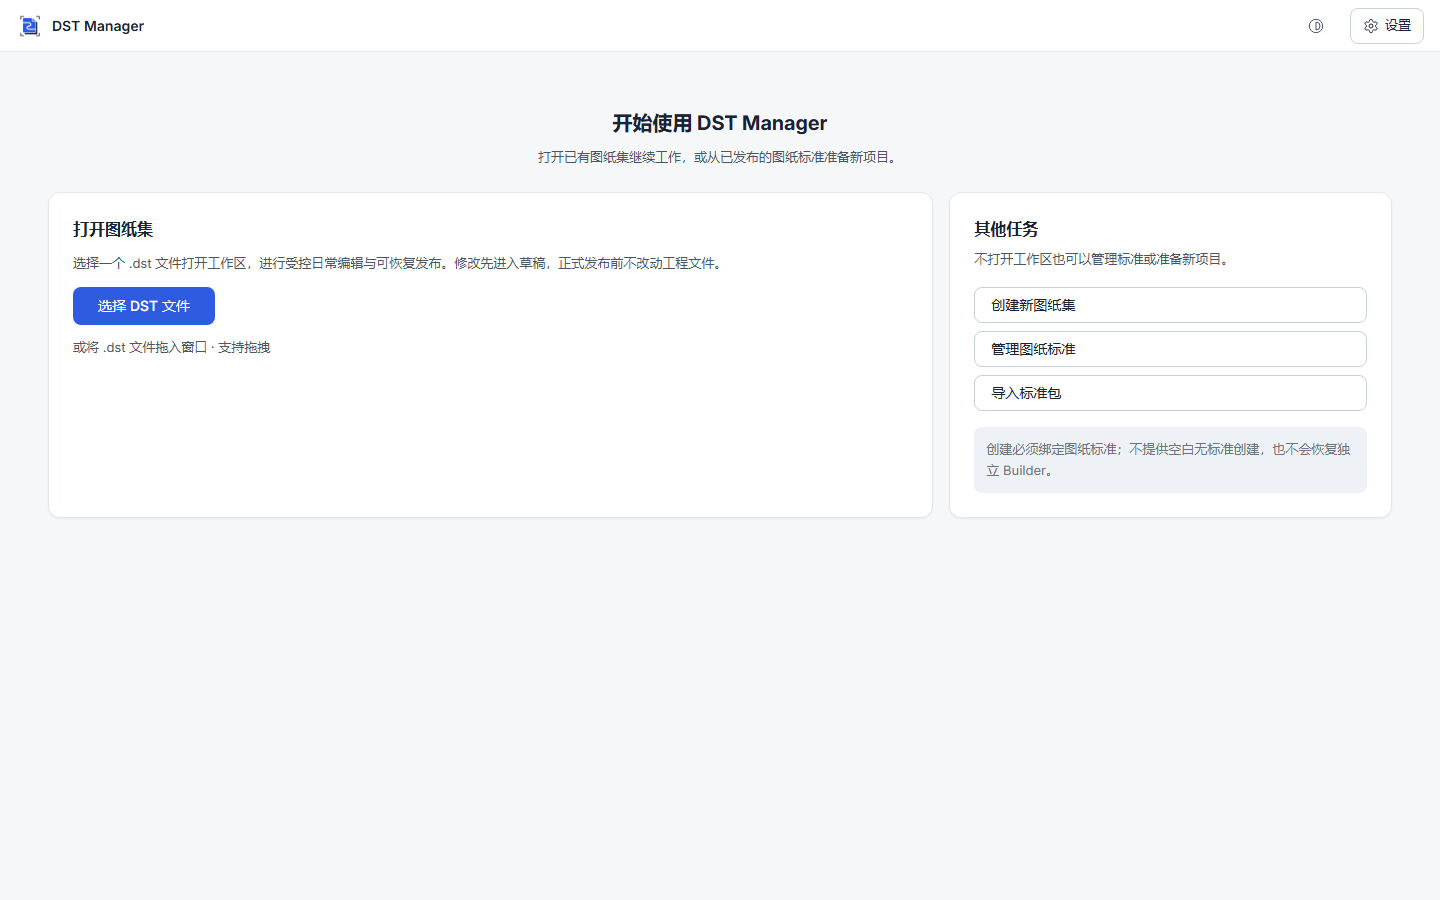
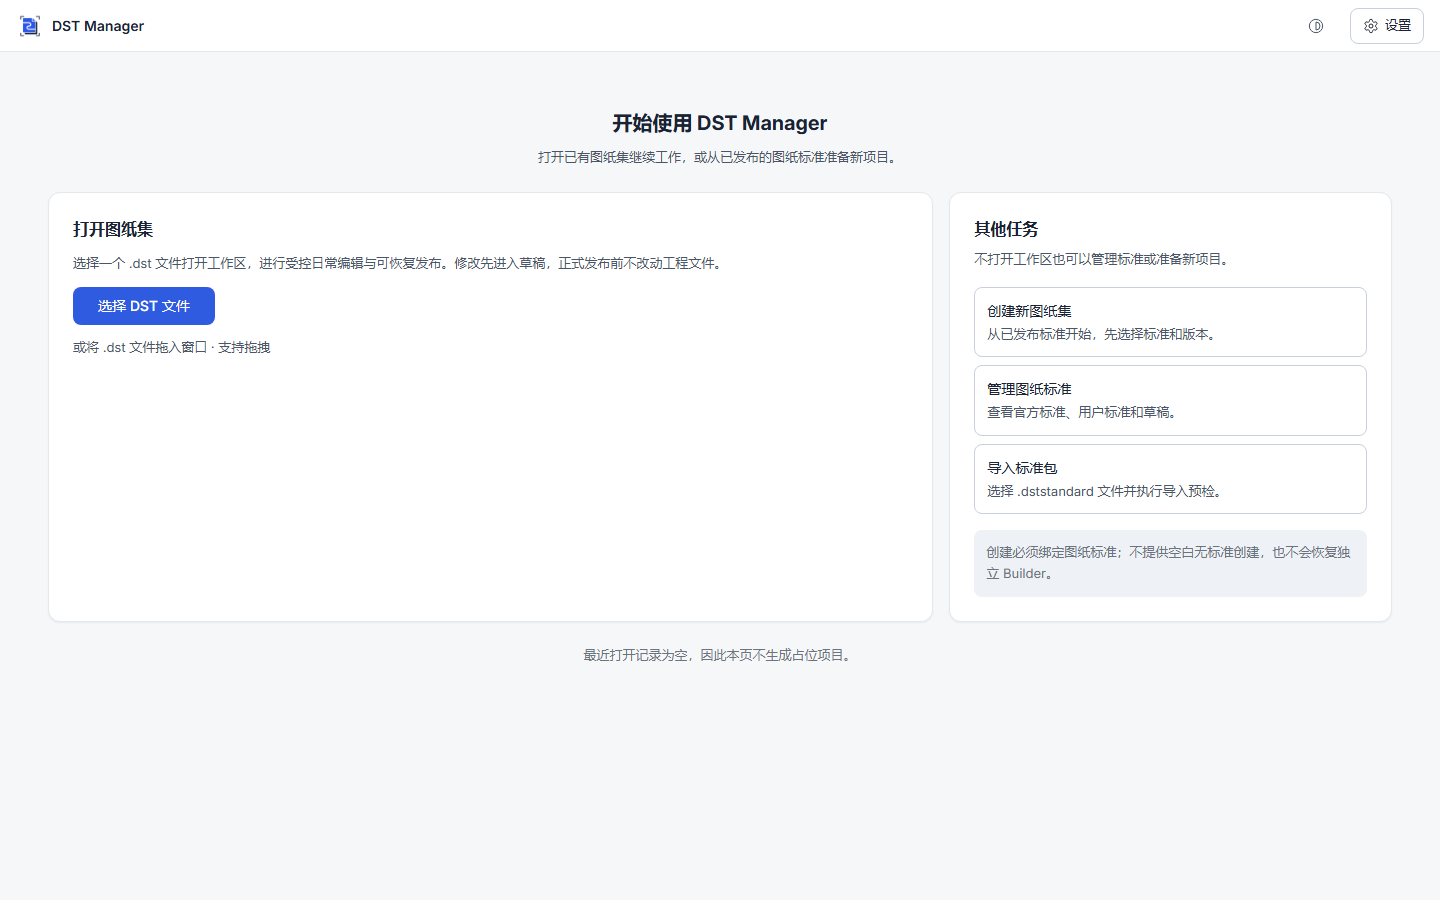
按 Demo 修正属性表标签重复与欢迎页任务说明

Changed region(s): [[0.6875, 0.3111, 0.9375, 0.56], [0.6875, 0.5911, 0.9375, 0.6533], [0.4062, 0.7156, 0.5938, 0.7467]]

diff --git a/web/src/views/WelcomeView.vue b/web/src/views/WelcomeView.vue
@@ -47,18 +47,29 @@ const pathInputId = "welcome-path-input";
         <p>{{ $t("shell.welcome.otherTasksDesc") }}</p>
         <div class="task-list">
           <UiButton class="task-item" variant="secondary" @click="emit('createSheetset')">
-            {{ $t("shell.welcome.createTask") }}
+            <span class="task-copy">
+              <strong>{{ $t("shell.welcome.createTask") }}</strong>
+              <span>{{ $t("shell.welcome.createTaskDesc") }}</span>
+            </span>
           </UiButton>
           <UiButton class="task-item" variant="secondary" @click="emit('manageStandards')">
-            {{ $t("standards.entry") }}
+            <span class="task-copy">
+              <strong>{{ $t("standards.entry") }}</strong>
+              <span>{{ $t("shell.welcome.manageTaskDesc") }}</span>
+            </span>
           </UiButton>
           <UiButton class="task-item" variant="secondary" @click="emit('importStandard')">
-            {{ $t("standards.library.import") }}
+            <span class="task-copy">
+              <strong>{{ $t("standards.library.import") }}</strong>
+              <span>{{ $t("shell.welcome.importTaskDesc") }}</span>
+            </span>
           </UiButton>
         </div>
         <p class="boundary-note" role="note">{{ $t("shell.welcome.standardBoundary") }}</p>
       </aside>
     </div>
+    <!-- 最近打开属于增强信息：没有可信记录时不伪造历史，只说明为空（SPEC-DM-016 §4.1） -->
+    <p class="recent-note">{{ $t("shell.welcome.recentEmptyNote") }}</p>
   </section>
 </template>
 <style scoped>
@@ -82,8 +93,12 @@ const pathInputId = "welcome-path-input";
 .welcome-open-card .primary:hover{background:var(--color-accent-hover)}
 .welcome-task-card{display:flex;flex-direction:column;gap:var(--space-2)}
 .task-list{display:grid;gap:var(--space-2);margin-top:var(--space-2)}
-.task-item{width:100%;justify-content:flex-start;text-align:left}
+.task-item{width:100%;height:auto;justify-content:flex-start;text-align:left;padding:var(--space-3)}
+.task-copy{display:grid;gap:var(--space-1);min-width:0}
+.task-copy strong{font-weight:500;color:var(--color-text-primary)}
+.task-copy span{color:var(--color-text-secondary);font-size:var(--font-label);line-height:1.5;white-space:normal}
 .boundary-note{margin-top:var(--space-2)!important;padding:var(--space-3);border-radius:var(--radius-md);background:var(--color-bg-muted);color:var(--color-text-muted)!important;font-size:var(--font-label);line-height:1.6}
+.recent-note{margin:0;text-align:center;color:var(--color-text-muted);font-size:var(--font-label)}
 /* 900×768 及以下单列：打开任务仍在最前，不产生页面横向滚动（SPEC-DM-016 §4.1） */
 @media (max-width: 900px){
   .welcome-page{padding:var(--space-5) var(--space-4)}

diff --git a/web/src/components/standards/OrdinaryPropertyEditor.vue b/web/src/components/standards/OrdinaryPropertyEditor.vue
@@ -233,6 +233,7 @@ function applyCsv(): void {
             <UiInput
               v-model="property.name"
               :label="$t('standards.ordinary.name')"
+              :aria-label="$t('standards.ordinary.name')"
               :invalid="hasError(property)"
               :data-testid="`ordinary-name-${property.property_id}`"
             />
@@ -286,6 +287,7 @@ function applyCsv(): void {
             <UiInput
               v-model="property.default_value"
               :label="$t('standards.ordinary.defaultValue')"
+              :aria-label="$t('standards.ordinary.defaultValue')"
               :placeholder="$t('standards.ordinary.defaultPlaceholder')"
               :data-testid="`ordinary-default-${property.property_id}`"
             />
@@ -316,6 +318,7 @@ function applyCsv(): void {
             <UiInput
               v-model="property.description"
               :label="$t('standards.ordinary.description')"
+              :aria-label="$t('standards.ordinary.description')"
               :data-testid="`ordinary-description-${property.property_id}`"
             />
           </td>
@@ -367,6 +370,10 @@ function applyCsv(): void {
 .delete-error{margin:0;padding:var(--space-2) var(--space-3);border:1px solid var(--color-danger);border-radius:var(--radius-md);background:var(--color-danger-bg);color:var(--color-danger);font-size:var(--font-label)}
 .section-empty{margin:0;font-size:var(--font-label);color:var(--color-text-secondary)}
 .ordinary-scroll{overflow-x:auto;min-width:0}
+/* 列标题已由表头表达（SPEC-DM-017 编辑器 Demo）：单元格内的 UiInput 可见字段标签
+   会与表头重复、把行撑高并造成错位。标签保留在 DOM 中作为可访问名，仅视觉隐藏。 */
+.ordinary-table :deep(.ui-input){gap:0}
+.ordinary-table :deep(.ui-input__label){display:none}
 .ordinary-table{width:100%;min-width:var(--standards-table-min-width);border-collapse:collapse;table-layout:fixed}
 .ordinary-table th,.ordinary-table td{padding:var(--space-1);border-bottom:1px solid var(--color-border-subtle);text-align:left;vertical-align:top}
 .ordinary-table th{font-size:var(--font-label);color:var(--color-text-secondary);font-weight:500}

diff --git a/web/src/components/standards/DerivedPropertyEditor.vue b/web/src/components/standards/DerivedPropertyEditor.vue
@@ -244,6 +244,7 @@ function removeProperty(property: DraftProperty): void {
         <UiInput
           v-model="property.name"
           :label="$t('standards.derived.name')"
+          :aria-label="$t('standards.derived.name')"
           :data-testid="`derived-name-${property.property_id}`"
         />
         <select
@@ -280,6 +281,7 @@ function removeProperty(property: DraftProperty): void {
         <UiInput
           v-model="property.description"
           :label="$t('standards.derived.description')"
+          :aria-label="$t('standards.derived.description')"
           :data-testid="`derived-description-${property.property_id}`"
         />
         <UiButton
@@ -325,6 +327,10 @@ function removeProperty(property: DraftProperty): void {
 .delete-error{margin:0;padding:var(--space-2) var(--space-3);border:1px solid var(--color-danger);border-radius:var(--radius-md);background:var(--color-danger-bg);color:var(--color-danger);font-size:var(--font-label)}
 .section-empty{margin:0;font-size:var(--font-label);color:var(--color-text-secondary)}
 .derived-list{display:grid;gap:var(--space-2)}
+/* 列标题已由 derived-head 表达（SPEC-DM-017 编辑器 Demo）：单元格内可见字段标签
+   会与列标题重复并撑高行高；标签保留在 DOM 中作为可访问名，仅视觉隐藏。 */
+.derived-row :deep(.ui-input){gap:0}
+.derived-row :deep(.ui-input__label){display:none}
 .derived-row{display:grid;grid-template-columns:minmax(0,1.1fr) 9% minmax(0,1.2fr) 12% minmax(0,1.2fr) auto auto;gap:var(--space-2);align-items:start}
 .derived-head{font-size:var(--font-label);color:var(--color-text-secondary)}
 /* 分级响应式（PLAN-DM-039 Task 3，对照 SPEC-DM-017 编辑器 Demo）：

diff --git a/web/tests/e2e/standards-editor.spec.ts b/web/tests/e2e/standards-editor.spec.ts
@@ -150,6 +150,25 @@ test("编辑器工作台独立占满标准页内容宽度", async ({page}) => {
   expect(pageWidth).toBeLessThanOrEqual(1440);
 });
 
+test("属性表单元格不再重复列标题标签", async ({page}) => {
+  await installStandards(page, [draft("草稿 1", "draft-1")], {drafts: {"draft-1": draftDocument()}});
+  await openStandards(page);
+  await openDraftEditor(page);
+  // 列标题已由表头表达；单元格内再渲染可见字段标签会与表头重复、把行撑高并错位（对照 SPEC-DM-017 Demo）
+  await openEditorSection(page, "ordinary");
+  const ordinaryLabel = page.getByTestId("ordinary-table").locator("label").first();
+  await expect(ordinaryLabel).toHaveCount(1);
+  // 标签从布局中移除（不再占据行内高度），可访问名改由输入框自身的 aria-label 承担
+  await expect(ordinaryLabel).toBeHidden();
+  // 可访问名仍必须存在（不能因为隐藏可见标签而丢失字段名）
+  await expect(page.getByTestId("ordinary-name-prop-major")).toHaveAttribute("aria-label", "属性名");
+
+  await openEditorSection(page, "derived");
+  const derivedLabel = page.getByTestId("derived-table").locator("label").first();
+  await expect(derivedLabel).toHaveCount(1);
+  await expect(derivedLabel).toBeHidden();
+});
+
 test("枚举排序与取消不落盘", async ({page}) => {
   const state = await installStandards(page, [draft("草稿 1", "draft-1")], {drafts: {"draft-1": draftDocument()}});
   await openStandards(page);

diff --git a/web/src/i18n/locales/en-US/shell.ts b/web/src/i18n/locales/en-US/shell.ts
@@ -34,6 +34,10 @@ export default {
     otherTasksTitle: "Other tasks",
     otherTasksDesc: "Manage standards or prepare a new project without opening a workspace.",
     createTask: "Create new sheet set",
+    createTaskDesc: "Start from a published standard: pick the standard and version first.",
+    manageTaskDesc: "Browse official standards, user standards and drafts.",
+    importTaskDesc: "Choose a .dststandard file and run the import pre-check.",
+    recentEmptyNote: "Recent-open history is empty, so this page shows no placeholder projects.",
     standardBoundary: "Creation must bind a drawing standard; there is no blank standard-less creation and the standalone Builder does not come back.",
     title: "Open Sheet Set",
     desc: "Select a .dst file to open a workspace for controlled daily editing and recoverable publishing. Changes go to the draft first; project files are not touched until you publish.",

diff --git a/web/src/i18n/locales/zh-CN/shell.ts b/web/src/i18n/locales/zh-CN/shell.ts
@@ -36,6 +36,10 @@ export default {
     otherTasksTitle: "其他任务",
     otherTasksDesc: "不打开工作区也可以管理标准或准备新项目。",
     createTask: "创建新图纸集",
+    createTaskDesc: "从已发布标准开始，先选择标准和版本。",
+    manageTaskDesc: "查看官方标准、用户标准和草稿。",
+    importTaskDesc: "选择 .dststandard 文件并执行导入预检。",
+    recentEmptyNote: "最近打开记录为空，因此本页不生成占位项目。",
     standardBoundary: "创建必须绑定图纸标准；不提供空白无标准创建，也不会恢复独立 Builder。",
     title: "打开图纸集",
     desc: "选择一个 .dst 文件打开工作区，进行受控日常编辑与可恢复发布。修改先进入草稿，正式发布前不改动工程文件。",

diff --git a/.planning/memos/dst-manager/assets/PLAN-DM-039/README.md b/.planning/memos/dst-manager/assets/PLAN-DM-039/README.md
@@ -10,7 +10,7 @@
 
 | 项 | 值 |
 | --- | --- |
-| 生成 commit | `20c7ac4`（`收敛标准编辑器响应式布局`，含 Task 1–3 全部改动） |
+| 生成 commit | `20c7ac4` 之上（`收敛标准编辑器响应式布局` + 第二轮候选修正：表格标签与欢迎页任务说明） |
 | 生成用例 | `web/tests/e2e/standards-visual-evidence.spec.ts`（既有 G4/G8 生成器，同一夹具、同一状态、同一视口） |
 | 生成命令 | 在 `web/` 下：`$env:DST_MANAGER_STANDARDS_EVIDENCE = "plan-dm-039"; npx playwright test tests/e2e/standards-visual-evidence.spec.ts --workers=1` |
 | 运行结果 | 35 passed / 0 failed（54s） |
@@ -46,28 +46,35 @@
 
 - 12 张全部有内容，无空白页、无加载中状态、无残留错误窗口；
 - 焦点环已在抓图前统一清除，无光标闪烁造成的局部像素差；
-- **已修一处**：900×768 的 DWG 命名状态下，令牌编辑器操作行的「清空」按钮被长提示文字挤成窄条。
-  修正：`TokenExpressionEditor` 操作行加 `flex-wrap: wrap`，提示文字加 `--standards-hint-min-width`
-  下限；重抓后按钮恢复完整可读（见 `g4-12`）。该修正已回到代码，不只改截图。
-- 已知但不属本轮范围：普通/派生属性表在单元格内渲染可见字段标签，与表头文字重复（PLAN-DM-038
-  既有实现，Demo 未含该标签）。本计划只收口页面级布局，未改表格单元格结构；如需调整应另立计划。
+- **第一轮候选后按用户裁决修正了两处，本目录已重抓**：
+  1. **普通/派生属性表拥挤错位**（用户反馈重点）：单元格内的 UiInput 可见字段标签与表头/列标题重复，
+     把行撑高并造成视觉错位。修正：`OrdinaryPropertyEditor` / `DerivedPropertyEditor` 隐藏单元格标签
+     （`display: none`）并给输入框补 `aria-label`，列标题由表头唯一承担；同时把 `UiInput` 在单元格内的
+     `gap` 归零。修正后行高回到 Demo 的单行密度，八列/七列对齐。
+  2. **欢迎页未含任务说明**：对照 SPEC-DM-016 Welcome Demo 补上三个次级任务行的说明文字
+     （创建/管理/导入各一行）与底部“最近打开记录为空”说明，任务行改为“标题 + 说明”两行结构。
+- **第一轮已修**：900×768 的 DWG 命名状态下，令牌编辑器操作行的「清空」按钮被长提示文字挤成窄条。
+  修正：`TokenExpressionEditor` 操作行加 `flex-wrap: wrap`，提示文字加 `--standards-hint-min-width` 下限。
+- 用户第一轮裁决意见（原文）：“与设计有偏差，欢迎页参照 SPEC-DM-016 welcome demo，标准编辑参照
+  SPEC-DM-017 demo，请以 demo 为准，尤其是‘普通属性’和‘派生属性’的表格排列拥挤错位。”
+  本目录为按该意见修正后的第二轮候选。
 
 ## 四、用户裁决
 
-**待用户裁决。** 请对照：
+**待用户第二轮裁决。** 请对照：
 
 - SPEC-DM-016 Welcome Demo：`docs/dst-manager/mockups/SPEC-DM-016-welcome-demo.html`
 - SPEC-DM-017 Editor Demo：`docs/dst-manager/mockups/SPEC-DM-017-standard-properties-and-dwg-naming-demo.html`
 
 裁决结果逐状态记录如下（用户确认前不得晋升 G4/G8）：
 
-| 状态 | 裁决（通过 / 否决+差异） | 裁决人 / 日期 |
-| --- | --- | --- |
-| 欢迎页 1440×900 浅/深 | 待裁决 | — |
-| 标准库 1440×900 浅/深 | 待裁决 | — |
-| 普通属性 1440×900 | 待裁决 | — |
-| 派生属性 1440×900 | 待裁决 | — |
-| DWG 命名 1440×900 与 900×768 | 待裁决 | — |
-| 模板资产 / 发布错误 / 发布成功 | 待裁决 | — |
+| 状态 | 第一轮裁决 | 第二轮裁决（通过 / 否决+差异） | 裁决人 / 日期 |
+| --- | --- | --- | --- |
+| 欢迎页 1440×900 浅/深 | 否决：未按 Demo（缺任务说明） | 待裁决 | 用户 / 2026-09-23 |
+| 普通属性 1440×900 | 否决：表格排列拥挤错位 | 待裁决 | 用户 / 2026-09-23 |
+| 派生属性 1440×900 | 否决：表格排列拥挤错位 | 待裁决 | 用户 / 2026-09-23 |
+| 标准库 1440×900 浅/深 | 未单独提出 | 待裁决 | — |
+| DWG 命名 1440×900 与 900×768 | 未单独提出（已修窄视口操作行） | 待裁决 | — |
+| 模板资产 / 发布错误 / 发布成功 | 未单独提出 | 待裁决 | — |
 
 若任一状态被否决，回到所属 Task 修正并重新生成全部受影响候选截图，再重新裁决。
